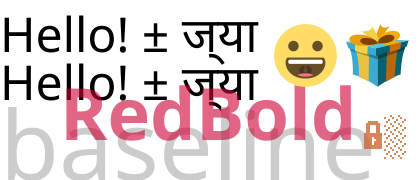
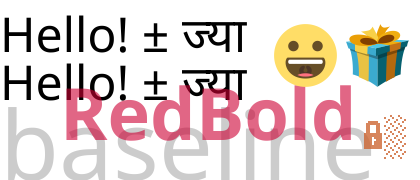
Segment input string (fixes #11)
Use shaping.Segmenter to make sure [Input.Script] field is filled, so that Harfbuzz may properly apply script specific rules.

Changed region(s): [[0.4333, 0.3889, 0.619, 0.6111], [0.4333, 0.1111, 0.619, 0.3333], [0.5262, 0.3333, 0.5571, 0.3611]]

diff --git a/render.go b/render.go
@@ -26,9 +26,33 @@ type Renderer struct {
 	// Color is the pen colour for rendering
 	Color color.Color
 
+	segmenter   shaping.Segmenter
 	shaper      shaping.Shaper
 	filler      *rasterx.Filler
 	fillerScale float32
+}
+
+func (r *Renderer) shape(str string, face font.Face) (_ shaping.Line, ascent int) {
+	text := []rune(str)
+	in := shaping.Input{
+		Text:     text,
+		RunStart: 0,
+		RunEnd:   len(text),
+		Face:     face,
+		Size:     fixed.I(int(r.FontSize)),
+	}
+
+	runs := r.segmenter.Split(in, singleFontMap{face})
+
+	line := make(shaping.Line, len(runs))
+	shaper := r.cachedShaper()
+	for i, run := range runs {
+		line[i] = shaper.Shape(run)
+		if a := line[i].LineBounds.Ascent.Ceil(); a > ascent {
+			ascent = a
+		}
+	}
+	return line, ascent
 }
 
 // DrawString will rasterise the given string into the output image using the specified font face.
@@ -36,19 +60,12 @@ type Renderer struct {
 // font ascent value, so that the text is all visible.
 // The return value is the X pixel position of the end of the drawn string.
 func (r *Renderer) DrawString(str string, img draw.Image, face font.Face) int {
-	if r.PixScale == 0 {
-		r.PixScale = 1
+	line, ascent := r.shape(str, face)
+	x := 0
+	for _, run := range line {
+		x = r.DrawShapedRunAt(run, img, x, ascent)
 	}
-
-	in := shaping.Input{
-		Text:     []rune(str),
-		RunStart: 0,
-		RunEnd:   len(str),
-		Face:     face,
-		Size:     fixed.I(int(r.FontSize)),
-	}
-	out := r.cachedShaper().Shape(in)
-	return r.DrawShapedRunAt(out, img, 0, out.LineBounds.Ascent.Ceil())
+	return x
 }
 
 // DrawStringAt will rasterise the given string into the output image using the specified font face.
@@ -56,18 +73,11 @@ func (r *Renderer) DrawString(str string, img draw.Image, face font.Face) int {
 // Note that x and y are not multiplied by the `PixScale` value as they refer to output coordinates.
 // The return value is the X pixel position of the end of the drawn string.
 func (r *Renderer) DrawStringAt(str string, img draw.Image, x, y int, face font.Face) int {
-	if r.PixScale == 0 {
-		r.PixScale = 1
+	line, _ := r.shape(str, face)
+	for _, run := range line {
+		x = r.DrawShapedRunAt(run, img, x, y)
 	}
-
-	in := shaping.Input{
-		Text:     []rune(str),
-		RunStart: 0,
-		RunEnd:   len(str),
-		Face:     face,
-		Size:     fixed.I(int(r.FontSize)),
-	}
-	return r.DrawShapedRunAt(r.cachedShaper().Shape(in), img, x, y)
+	return x
 }
 
 // DrawShapedRunAt will rasterise the given shaper run into the output image using font face referenced in the shaping.
@@ -142,3 +152,9 @@ func fixed266ToFloat(i fixed.Int26_6) float32 {
 func floatToFixed266(f float32) fixed.Int26_6 {
 	return fixed.Int26_6(int(float64(f) * 64))
 }
+
+type singleFontMap struct {
+	face font.Face
+}
+
+func (sf singleFontMap) ResolveFace(rune) font.Face { return sf.face }

diff --git a/render_test.go b/render_test.go
@@ -80,3 +80,22 @@ func TestRender_PixScaleAdvance(t *testing.T) {
 		t.Error("scaled font did not advance proportionately")
 	}
 }
+
+func TestRenderHindi(t *testing.T) {
+	text := "नमस्ते"
+	r := &render.Renderer{
+		FontSize: 30,
+		Color:    color.Black,
+	}
+
+	img := image.NewNRGBA(image.Rect(0, 0, 120, 50))
+	draw.Draw(img, img.Bounds(), &image.Uniform{color.White}, image.Point{}, draw.Src)
+	data, _ := os.Open("testdata/NotoSans-Regular.ttf")
+	face, _ := font.ParseTTF(data)
+
+	r.DrawString(text, img, face)
+
+	w, _ := os.Create("testdata/out_hindi.png")
+	png.Encode(w, img)
+	w.Close()
+}
